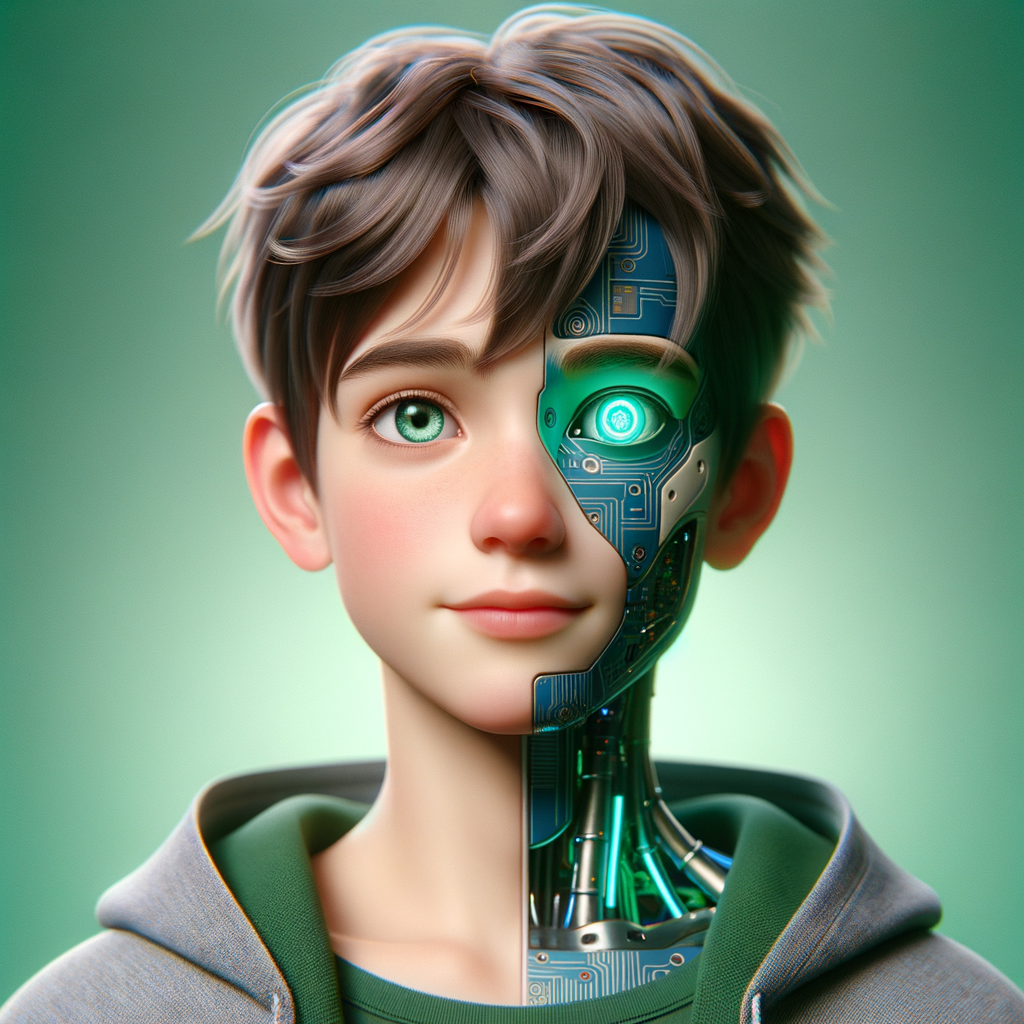
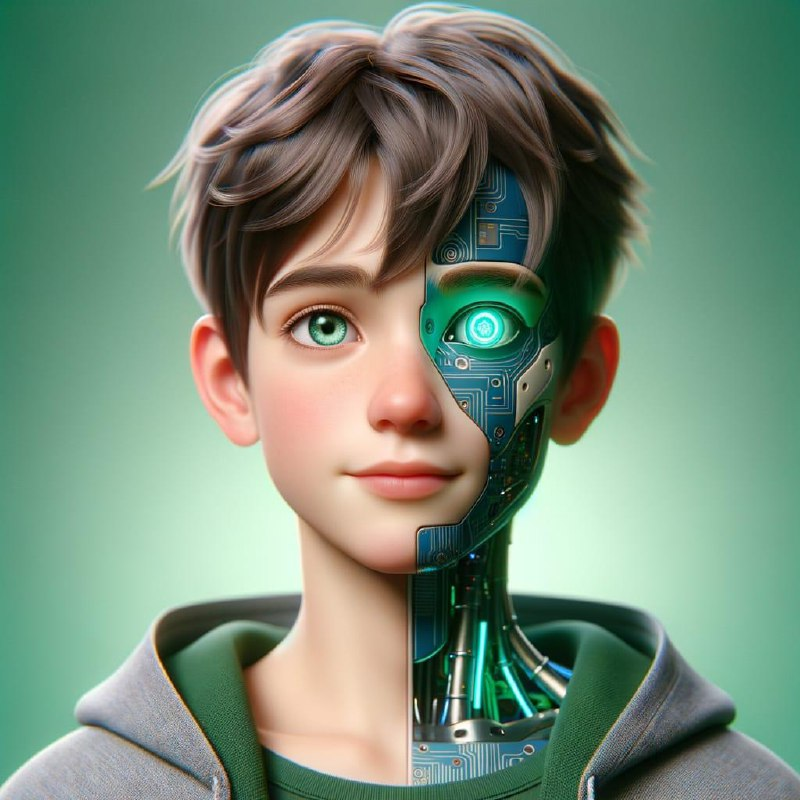
feat: add agent portraits with fade to Agent Sessions card on Token tab

diff --git a/portal/index.html b/portal/index.html
@@ -747,28 +747,43 @@
           </div>
         </div>
         <div class="grid grid-cols-3 divide-x divide-gray-800 border-b border-gray-800">
-          <div class="px-5 py-4">
-            <div class="text-xs text-indigo-400 font-semibold uppercase tracking-wide mb-2">Cliff</div>
-            <div class="flex items-end gap-4">
-              <div><div class="text-xs text-gray-500 mb-0.5">Sessions</div><div id="ag-cliff-runs" class="text-xl font-bold text-white">—</div></div>
-              <div><div class="text-xs text-gray-500 mb-0.5">Tokens</div><div id="ag-cliff-tokens" class="text-xl font-bold text-white">—</div></div>
-              <div><div class="text-xs text-gray-500 mb-0.5">Cost</div><div id="ag-cliff-cost" class="text-xl font-bold text-yellow-400">—</div></div>
+          <!-- Cliff -->
+          <div class="relative overflow-hidden" style="min-height:90px;">
+            <img src="/portal/cliff-avatar.jpg" alt="Cliff" class="absolute left-0 top-0 h-full w-32 object-cover object-top" style="opacity:0.7;" />
+            <div class="absolute left-0 top-0 h-full w-32" style="background:linear-gradient(to right, transparent 55%, #111827 100%);"></div>
+            <div class="relative px-5 py-4 pl-36">
+              <div class="text-xs text-indigo-400 font-semibold uppercase tracking-wide mb-2">Cliff</div>
+              <div class="flex items-end gap-4">
+                <div><div class="text-xs text-gray-500 mb-0.5">Sessions</div><div id="ag-cliff-runs" class="text-xl font-bold text-white">—</div></div>
+                <div><div class="text-xs text-gray-500 mb-0.5">Tokens</div><div id="ag-cliff-tokens" class="text-xl font-bold text-white">—</div></div>
+                <div><div class="text-xs text-gray-500 mb-0.5">Cost</div><div id="ag-cliff-cost" class="text-xl font-bold text-yellow-400">—</div></div>
+              </div>
             </div>
           </div>
-          <div class="px-5 py-4">
-            <div class="text-xs text-teal-400 font-semibold uppercase tracking-wide mb-2">Samantha</div>
-            <div class="flex items-end gap-4">
-              <div><div class="text-xs text-gray-500 mb-0.5">Sessions</div><div id="ag-samantha-runs" class="text-xl font-bold text-white">—</div></div>
-              <div><div class="text-xs text-gray-500 mb-0.5">Tokens</div><div id="ag-samantha-tokens" class="text-xl font-bold text-white">—</div></div>
-              <div><div class="text-xs text-gray-500 mb-0.5">Cost</div><div id="ag-samantha-cost" class="text-xl font-bold text-yellow-400">—</div></div>
+          <!-- Samantha -->
+          <div class="relative overflow-hidden" style="min-height:90px;">
+            <img src="/portal/samantha-avatar.jpg" alt="Samantha" class="absolute left-0 top-0 h-full w-32 object-cover object-top" style="opacity:0.7;" />
+            <div class="absolute left-0 top-0 h-full w-32" style="background:linear-gradient(to right, transparent 55%, #111827 100%);"></div>
+            <div class="relative px-5 py-4 pl-36">
+              <div class="text-xs text-teal-400 font-semibold uppercase tracking-wide mb-2">Samantha</div>
+              <div class="flex items-end gap-4">
+                <div><div class="text-xs text-gray-500 mb-0.5">Sessions</div><div id="ag-samantha-runs" class="text-xl font-bold text-white">—</div></div>
+                <div><div class="text-xs text-gray-500 mb-0.5">Tokens</div><div id="ag-samantha-tokens" class="text-xl font-bold text-white">—</div></div>
+                <div><div class="text-xs text-gray-500 mb-0.5">Cost</div><div id="ag-samantha-cost" class="text-xl font-bold text-yellow-400">—</div></div>
+              </div>
             </div>
           </div>
-          <div class="px-5 py-4">
-            <div class="text-xs text-green-400 font-semibold uppercase tracking-wide mb-2">Scout</div>
-            <div class="flex items-end gap-4">
-              <div><div class="text-xs text-gray-500 mb-0.5">Sessions</div><div id="ag-scout-runs" class="text-xl font-bold text-white">—</div></div>
-              <div><div class="text-xs text-gray-500 mb-0.5">Tokens</div><div id="ag-scout-tokens" class="text-xl font-bold text-white">—</div></div>
-              <div><div class="text-xs text-gray-500 mb-0.5">Cost</div><div id="ag-scout-cost" class="text-xl font-bold text-yellow-400">—</div></div>
+          <!-- Scout -->
+          <div class="relative overflow-hidden" style="min-height:90px;">
+            <img src="/portal/scout-avatar.jpg" alt="Scout" class="absolute left-0 top-0 h-full w-32 object-cover object-top" style="opacity:0.7;" />
+            <div class="absolute left-0 top-0 h-full w-32" style="background:linear-gradient(to right, transparent 55%, #111827 100%);"></div>
+            <div class="relative px-5 py-4 pl-36">
+              <div class="text-xs text-green-400 font-semibold uppercase tracking-wide mb-2">Scout</div>
+              <div class="flex items-end gap-4">
+                <div><div class="text-xs text-gray-500 mb-0.5">Sessions</div><div id="ag-scout-runs" class="text-xl font-bold text-white">—</div></div>
+                <div><div class="text-xs text-gray-500 mb-0.5">Tokens</div><div id="ag-scout-tokens" class="text-xl font-bold text-white">—</div></div>
+                <div><div class="text-xs text-gray-500 mb-0.5">Cost</div><div id="ag-scout-cost" class="text-xl font-bold text-yellow-400">—</div></div>
+              </div>
             </div>
           </div>
         </div>
